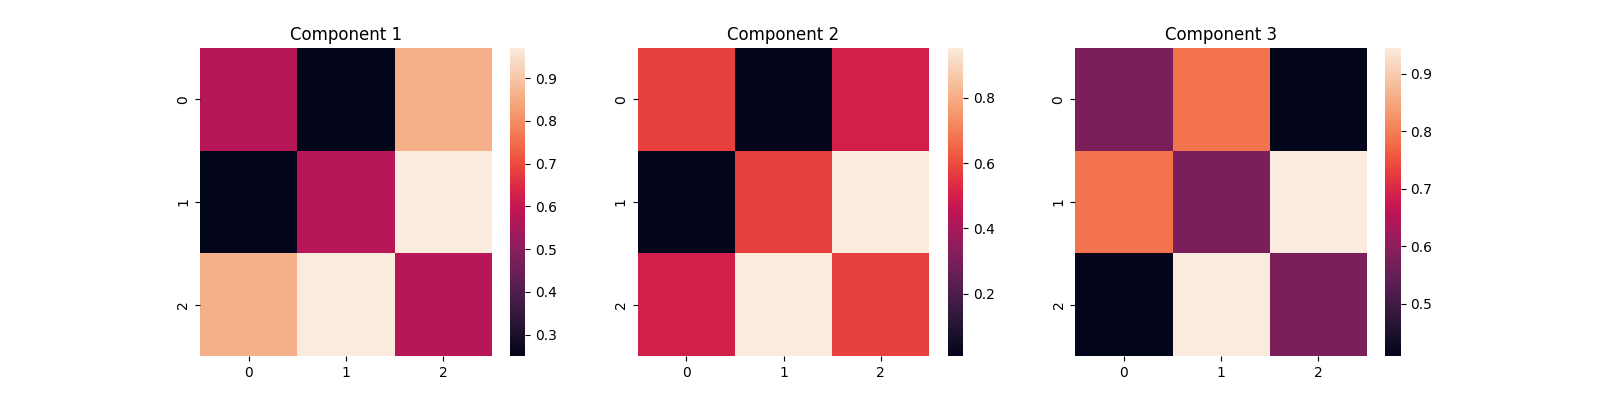
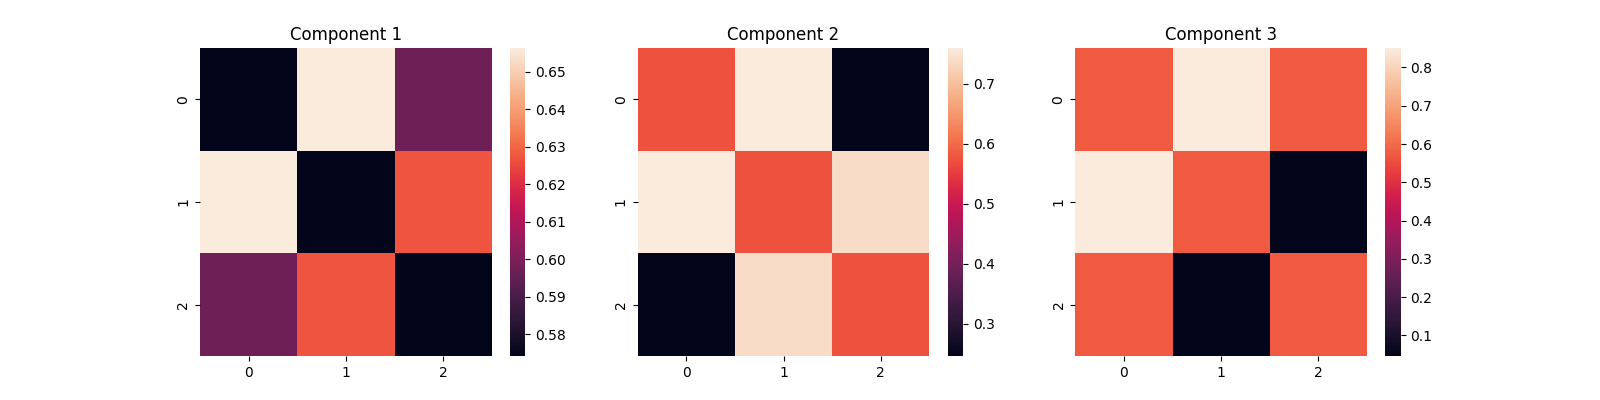
init

diff --git a/src/results/phi_nce_plot.py b/src/results/phi_nce_plot.py
@@ -4,6 +4,7 @@ import scipy.special
 sys.path.insert(0, '.')
 
 from src.toolbox import load_sample_data, TorusGraph, NCE, sample_syndata_torusgraph
+from src.toolbox.data import NMODELS_TO_PHI
 import time
 import numpy as np
 import torch
@@ -17,7 +18,7 @@ from src.parameterEstimation.NCE import NCE
 from src.parameterEstimation.trainNCE import mixture_torch_loop
 
 
-def get_alpha_beta(theta):
+def get_alpha_beta(theta, K):
     '''Alpha and Beta gets computed here with theta as input.
     Alpha and beta will be returned as a symmetric matrix referring to cos_phi and sin_phi. 
 
@@ -25,7 +26,6 @@ def get_alpha_beta(theta):
     
     
     '''
-    K = model.K
     theta = theta.detach().numpy()
     n = nodes
     idx = torch.triu_indices(n,n,1)
@@ -52,8 +52,8 @@ def I1(x):
     # scipy.special.i1(x) # Bessel function of the first kind of real order and complex argument
     return scipy.special.i1(x)
 
-def get_phi_corr(theta): # this returns P_jk, but should be a matrix of correlations between signals
-    alpha, beta = get_alpha_beta(theta)
+def get_phi_corr(theta, K): # this returns P_jk, but should be a matrix of correlations between signals
+    alpha, beta = get_alpha_beta(theta, K)
     n = alpha[0].shape[0]
     P = [np.zeros((n,n)) for i in range(K)]
     for component in range(K):
@@ -63,12 +63,11 @@ def get_phi_corr(theta): # this returns P_jk, but should be a matrix of correlat
     return P
 
 
-def get_true_phi(phi):
-    K = model.K
+def get_true_phi(phi, K):
     n = nodes
     idx = torch.triu_indices(n,n,1)
     alpha = [np.zeros((n,n)) for i in range(K)]
-    beta = alpha
+    beta = [np.zeros((n,n)) for i in range(K)]
     Phi = []
     for component in np.arange(0,K):
         Phi.append(phi[component].reshape(-1,K))
@@ -85,6 +84,8 @@ def get_true_phi(phi):
     for component in range(K):
         for row in range(n):
             for col in range(n):
+                print(alpha[component][row,col], beta[component][row,col])
+                print(row, col, np.sqrt(alpha[component][row,col]**2 + beta[component][row,col]**2), I1(np.sqrt(alpha[component][row,col]**2 + beta[component][row,col]**2)), I0(np.sqrt(alpha[component][row,col]**2 + beta[component][row,col]**2)))
                 P[component][row,col] = I1(np.sqrt(alpha[component][row,col]**2 + beta[component][row,col]**2)) / I0(np.sqrt(alpha[component][row,col]**2 + beta[component][row,col]**2))
     return P
 
@@ -96,35 +97,28 @@ if __name__ == "__main__":
 
     N = 1000 # samples
     nodes = 3
-    K = 3 
-    cv_runs = 10
+    K = 3 # single model
     nce_steps = 5000
+    lr = 0.1
 
-    lrs_to_test = [10, 1, 0.5, 0.1, 0.05, 0.01, 0.005, 0.001]
-    lr_dict = {lr: [] for lr in lrs_to_test}
+    nce = NCE(
+        nodes = nodes,
+        K = K,
+        steps = nce_steps,
+        lr = lr
+    )
+    tg = TorusGraph(
+        nodes = nodes,
+        samples = N,
+        nModels = K,
+        estimationMethod = nce,
+        return_datamodel = True,
+    )
 
-    N = 200 # samples
-    nodes = 3
-    K = 3 # number of models (or components)
+    phi = tg.TGInformation.phi
+    theta = tg.estimationMethod.theta
 
-    data, datamodel = sampleFromTorusGraph(
-            nodes = nodes,
-            samples = N,
-            phi = None,
-            fitFCM = False,
-            fitPAD = True,
-            fitPAS = False,
-            return_datamodel = True
-        )
-    data = torch.from_numpy(data).float().T
-    noise = torch.rand(N,nodes)*2*torch.tensor(np.pi) # Noise distribution, mellem 0 og 2*pi
-
-
-    model = NCE(nodes=data.shape[1],K=3,return_log_prop_data=False)
-    model,objective = mixture_torch_loop(data,noise,model)
-    theta,c = model.theta,model.logc
-
-    Ps = get_phi_corr(theta)
+    Ps = get_phi_corr(theta, K)
 
     plt.figure(figsize=(16,4))
     plt.subplot(1,3,1)
@@ -143,12 +137,7 @@ if __name__ == "__main__":
     plt.show()
 
     # Doing it for the true phi:
-    phi = [
-        np.block([ 0, 0, 8*np.cos(np.pi), 8*np.sin(np.pi), 0, 0 ]), 
-        np.block([ 0, 0, 8*np.sin(np.pi), 8*np.cos(np.pi), 0, 0 ]), 
-        np.block([ 0, 0, 8*np.cos(np.pi)*np.cos(np.pi), 8*np.cos(np.pi)*np.sin(np.pi), 0, 0 ])
-    ]
-    true_phis = get_true_phi(phi)
+    true_phis = get_true_phi(phi, K)
 
     plt.figure(figsize=(16,4))
     plt.subplot(1,3,1)

diff --git a/src/toolbox/torus.py b/src/toolbox/torus.py
@@ -58,12 +58,13 @@ class TorusGraph():
         data: np.ndarray = None,
         noise: np.ndarray = None,
         TGInformation: TorusGraphInformation = None,
-        true_vals: np.ndarray = None
+        true_vals: np.ndarray = None,
+        return_datamodel: bool = False,
     ):
         self.true_vals, self.data, self.TGInformation, self.estimationMethod, self.noise = true_vals, data, TGInformation, estimationMethod, noise
         if data is None:
             logging.info("No data was set, so sampling synthetic data with default settings. If you wish to change those, sample the data beforehand. ")
-            if nModels == 1:
+            if nModels == 1 or return_datamodel:
                 self.data, self.TGInformation = sample_syndata_torusgraph(nodes = nodes, samples = samples, nModels = nModels, return_datamodel = True)
             else:
                 self.data = sample_syndata_torusgraph(nodes = nodes, samples = samples, nModels = nModels, return_datamodel = False)
@@ -78,13 +79,14 @@ class TorusGraph():
             logging.warning("You wanted to estimate using SM, but no TorusGraphInformation was set, so switching to using NCE for parameter estimation.")
             self.estimationMethod = NCE(nodes, nModels)
         if isinstance(self.estimationMethod, NCE):
-            if self.noise is None: self.noise = estimate_uniform_noise(nodes, samples)
+            if self.noise is None and self.TGInformation is not None: self.noise = estimate_uniform_noise(nodes, self.TGInformation.samples)
+            elif self.noise is None: self.noise = estimate_uniform_noise(nodes, samples)
             self.estimationMethod.run(self.data, self.noise)
         elif isinstance(self.estimationMethod, SM):
             self.estimationMethod.run()
         else:
             raise NotImplementedError("Not implemented for estimation method", type)
-        self.info = {"nodes": nodes, "samples": samples, "nModels": nModels, "estimation method": self.estimationMethod.__class__.__name__}
+        self.info = {"nodes": nodes, "samples": samples, "nModels": nModels, "estimation method": self.estimationMethod.__class__.__name__, "returned datamodel": return_datamodel}
     
     def evaluate(self, save_dest: str = None):
         """

diff --git a/src/toolbox/data.py b/src/toolbox/data.py
@@ -15,9 +15,9 @@ NMODELS_TO_PHI = {
         np.block([ 0, 0, 8*np.sin(np.pi), 8*np.cos(np.pi), 0, 0 ])
     ],
     3: [
-        np.block([ 0, 0, 8*np.cos(np.pi), 8*np.sin(np.pi), 0, 0 ]), 
-        np.block([ 0, 0, 8*np.sin(np.pi), 8*np.cos(np.pi), 0, 0 ]), 
-        np.block([ 0, 0, 8*np.cos(np.pi)*np.cos(np.pi), 8*np.cos(np.pi)*np.sin(np.pi), 0, 0 ])
+        np.block([ 0, 0, np.cos(np.pi), np.sin(np.pi), 0, 0 ]), 
+        np.block([ 0, 0, np.sin(np.pi), np.cos(np.pi), 0, 0 ]), 
+        np.block([ 0, np.cos(np.pi), 0, 0, np.sin(np.pi), 0 ])
     ],
 }
 
